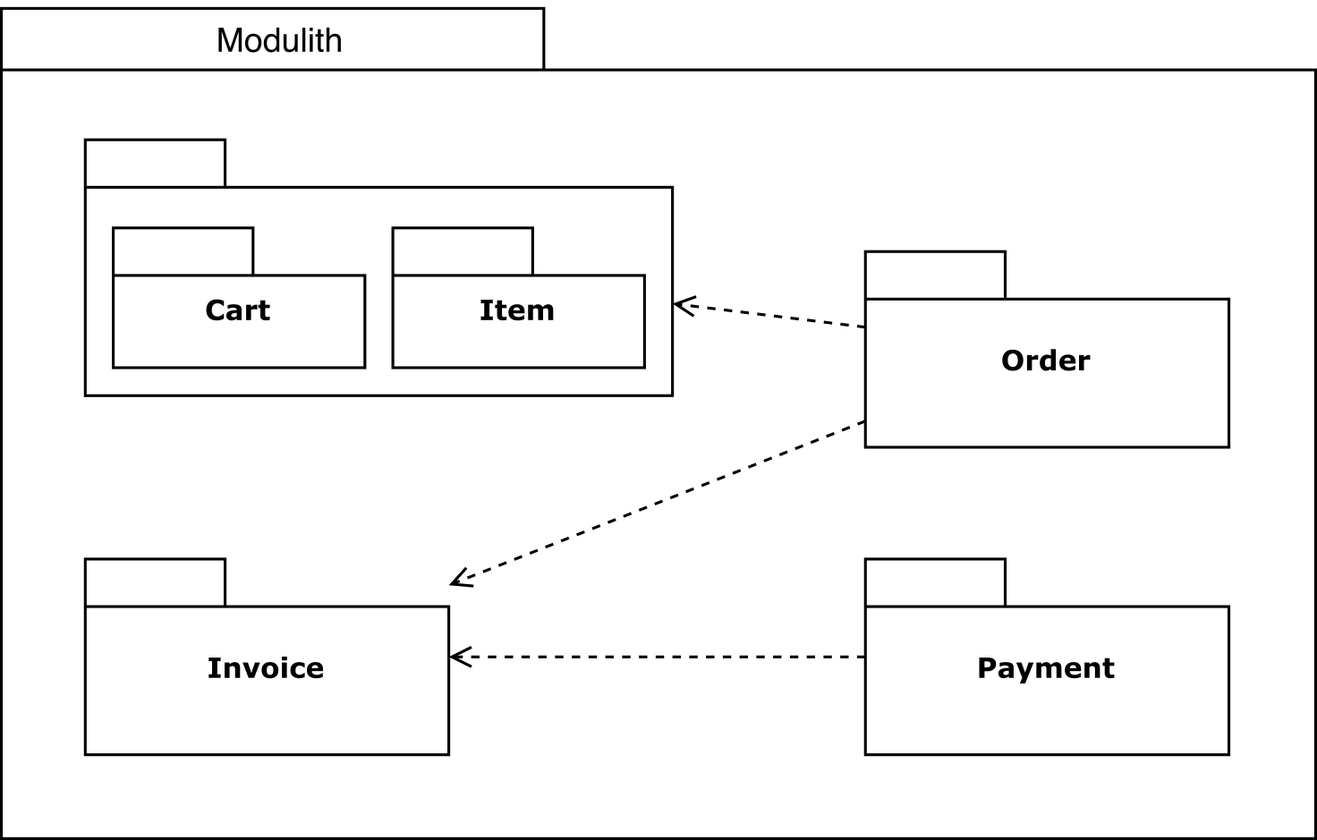
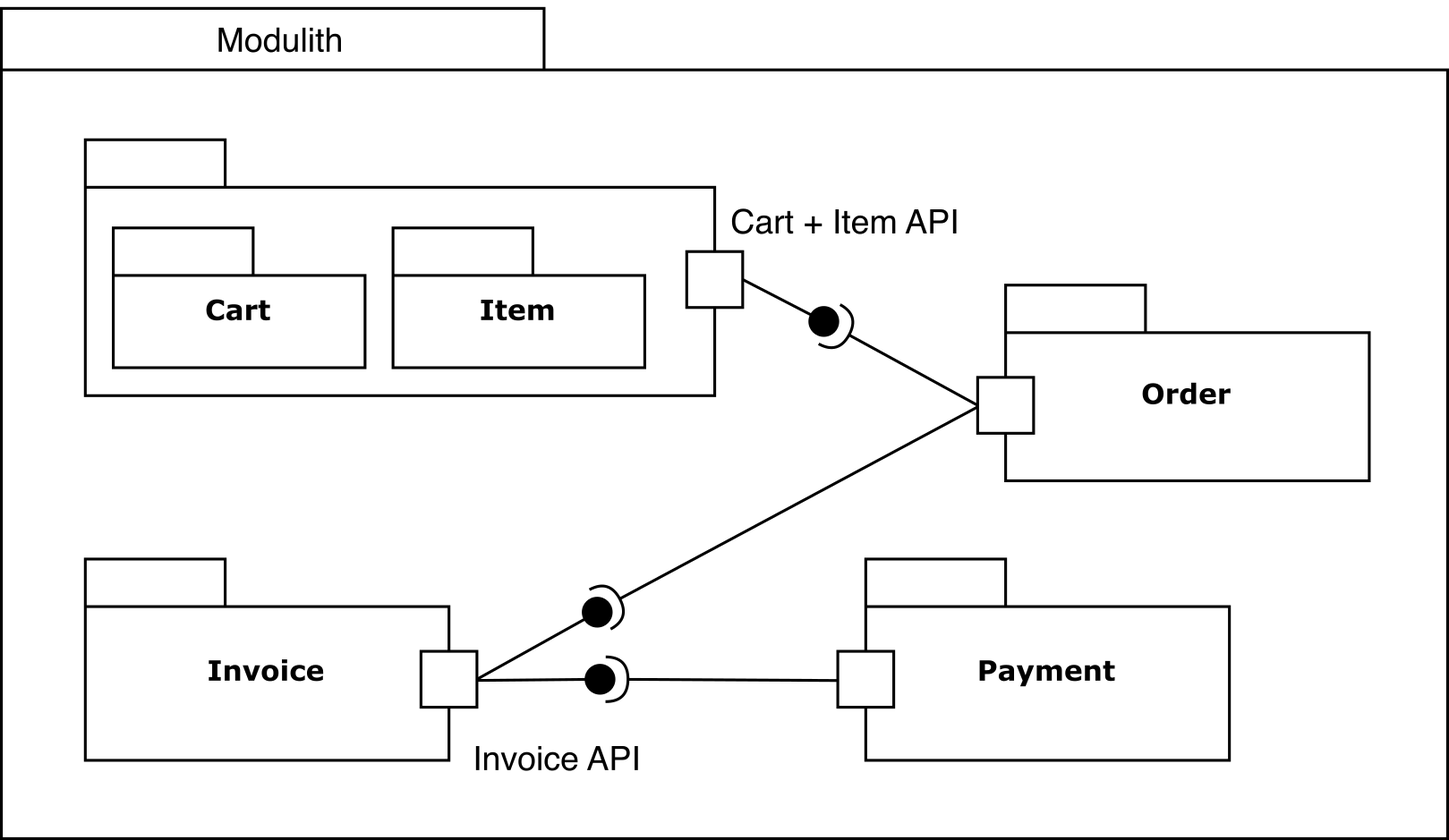
Work in all notes

diff --git a/thesis/src/text/example_application.tex b/thesis/src/text/example_application.tex
@@ -4,7 +4,7 @@
 % Performance testing +monolith
 % https://ieeexplore.ieee.org/abstract/document/9109514
 
-Up to this point, we have walk through three different types of architecture patterns. In this section we are going to look into implementation of simple application using every pattern. We will look into implication concerning internal structure, database design, scalability and of course performance.
+Up to this point, we have walk through three different types of architecture patterns. In this section we are going to look into implementation of a simple application using all 3 discussed architecture patterns (Monolith, Mudulith, Microservice). We will look into implication concerning internal structure, database design, scalability and of course performance.
 
 \section{Application}
 This is an application example of real world system, consisting of HTTP API, database queries and business logic. It was design to be easy to understand and solve problem known to everyone: orders. Every application exposes following HTTP API:
@@ -21,7 +21,7 @@ This is an application example of real world system, consisting of HTTP API, dat
     \item \textbf{Post /payment/invoice/\{invoiceId\}} - Pay for invoice specified by id.
 \end{itemize}
 
-Client of application can view items, add them to his shopping cart, place order, retrieve invoice and pay for it. As most of the applications today, there are mainly operations querying data or saving data into database. Activity flow is described on Diagram \ref{img:app_activity_flow}. First session is created for client, then he loads items and add all he wants into his shopping cart. Later client places order, invoice is generated in background and client can cancel the order or pay for it. To add more cpu sensitive task, the generation of invoice generates pdf and also calculates 41st Fibonacci Number.
+Client of application can view items, add them to his shopping cart, place order, retrieve invoice and pay for it. As most of the applications today, there are mainly operations querying data or saving data into database. Activity flow is described on Figure~\ref{img:app_activity_flow}. First session is created for client, then he loads items and add all he wants into his shopping cart. Later client places order, invoice is generated in background and client can cancel the order or pay for it. To add more cpu sensitive task, the generation of invoice generates pdf and also calculates 41st Fibonacci Number.
 
 The candidates for implementation programming language were Rust and Golang due to its minimal runtime (minimal effect on Benchmarking). Winner being Golang, because of it's easier to use, good authors personal experience and better support for Open Tracing project, which will be used for monitoring from within application during benchmarking. All applications are based on \textit{gorilla/mux} \cite{MUX} library for http server + request routing and \textit{Bun} \cite{BUN} as lightweight ORM.
 
@@ -36,7 +36,7 @@ Application will have to be able to run in multiple instances, so it can be late
 
 
 \section{Monolith example}
-This example is implemented as Monolithic system. Basically it is Three-tier application: presentation (HTTP API), application and data (database). Diagram \ref{img:monolith_db_schema} describes internal application package structure. \textit{Routes} package contains path mapping for endpoints handlers defined in \textit{endpoints}. Handlers contain simple logic definition, more complex logic resides in \textit{services} and data manipulation around database is contained in \textit{database} package.
+This example is implemented as Monolithic system. Basically it is a three-tier application: presentation (HTTP API), application and data (database). Figure~\ref{img:monolith_db_schema} describes internal application package structure. \textit{Routes} package contains path mapping for endpoints handlers defined in \textit{endpoints}. Handlers contain simple logic definition, more complex logic resides in \textit{services} and data manipulation around database is contained in \textit{database} package.
 
 \begin{figure}
     \centering
@@ -46,7 +46,7 @@ This example is implemented as Monolithic system. Basically it is Three-tier app
 
 
 \subsection{Database}
-Due to nature of Monolith as unified system, all data resides inside single database fully leveraging constraints and referential integrity and thus ensuring data consistency. Complete database schema is displayed on Diagram~\ref{img:monolith_db_schema} consisting of 7 tables, five of being entity tables and two entity relation mapping. Application will have database pool consisting maximally of 8 connections.
+Due to nature of Monolith as unified system, all data resides inside single database fully leveraging constraints and referential integrity and thus ensuring data consistency. Complete database schema is displayed on Diagram~\ref{img:monolith_db_schema} consisting of 7 tables, five of being entity tables and two entity relationship mapping. Application will have database pool consisting maximally of 8 connections.
 
 \begin{figure}
     \centering
@@ -57,7 +57,7 @@ Due to nature of Monolith as unified system, all data resides inside single data
 
 
 \section{Modulith example}
-This is example using Modular Monolith approach. The original Monolithic application was split into multiple smaller Monoliths called \textit{modules}. The scope of every module depends on the specificity of the project. In this case it nearly corresponds to module per database Entity, exception being shopping cart and items, which were merged into single module to demonstrate possibility to have modules with larger volume. Package schema and dependency are displayed on Diagram~\ref{img:modulith_package}.
+This is an example using Modular Monolith approach. The original Monolithic application was split into multiple smaller Monoliths called \textit{modules}. The scope of every module depends on the specificity of the project. In this case it nearly corresponds to module per database Entity, exception being shopping cart and items, which were merged into single module to demonstrate possibility to have modules with larger volume. Package schema and dependency are displayed on Diagram~\ref{img:modulith_package}.
 
 Every module has the same internal structure as original Monolith plus exposes its API with interface (Diagram~\ref{img:modulith_module_package}). Modules encapsulate its own data storage and there shouldn't be any inter-modules table constraint set in database, although it is possible, it does not make sense from the perspective of logical separation. It should be possible for every module to use different database and even different database technology. In case of the largest module containing shopping cart and items, there are foreign keys constraints preserved since it resides inside single module.
 
@@ -77,7 +77,7 @@ Modulith application was further extended to run in 3 modes, depending on enviro
 \begin{figure}
     \centering
     \includesvg[width=0.7\textwidth]{images/modulith_module_package.svg}
-    \caption{Internal package structure of single module (Modulith example). \label{img:modulith_module_package}}
+    \caption{Internal package structure of single module (Modulith example).\label{img:modulith_module_package}}
 \end{figure}
 
 \begin{figure}
@@ -96,7 +96,7 @@ Every module encapsulates its own tables completely independent of the rest. Tab
 % \end{figure}
 
 \section{Microservices example}
-In this example the Modulith implementation was further split into 5 microservices: Item, Cart, Invoice, Order and Payment. Modulith originally contained 4 packages of which 1 combined logic around Shopping Cart and Items, so it was split into two for the volume to be more consistent across microservices. The dependency graph between services is displayed on Diagram \ref{img:microservices_dependency}.
+In this example the Modulith implementation was further split into 5 microservices: Item, Cart, Invoice, Order and Payment. Modulith originally contained 4 packages of which 1 combined logic around Shopping Cart and Items, so it was split into two for the volume to be more consistent across microservices. The dependency graph between services is displayed on Figure~\ref{img:microservices_dependency}.
 
 Spliting Modulith into services requires exposing additional functionality over the network, since Modulith modules were communicates with other modules via inter-process communication. Following additional endpoints had to be created (compared to Monolith) and corresponding clients to satisfy defined interfaces.
 
@@ -116,7 +116,7 @@ Whole application is compiled into single binary, but in production it would be 
 \begin{figure}
     \centering
     \includesvg[width=0.7\textwidth]{images/microservices_dependency.svg}
-    \caption{Diagram displaying dependency between micro-services. \label{img:microservices_dependency}}
+    \caption{Dependency between micro-services. \label{img:microservices_dependency}}
 \end{figure}
 
 \subsection{Database}

diff --git a/thesis/src/text/microservice.tex b/thesis/src/text/microservice.tex
@@ -14,9 +14,9 @@ From a technology viewpoint, microservices expose the business capabilities that
 Compared to the discussed Modulith in section \ref{section:modulith}, Microservices are taking the whole modular concept one step further. Instead of primarily building the application around modules with possibility to extract module into separate service to scale it, they are building the whole application from the ground around services with network boundaries fully embracing scalability. This is where I see the problem with building new applications with Microservices architecture from the start when there is no idea about system load, performance issues or just about anything. I would compare it to `Premature optimization' in programming - why spend a lot of time building super scalable system, when we do not even know yet if we will ever need it?
 
 % how to find correct size of microservice
-What is the correct size of single Microservice? The \textit{micro} part of the word is misleading. The Microservices were created primarily for needs of big companies and original idea behind it was to have a dedicated team of developers behind nearly Microservices. And this is something, which is not possible in most of the companies with just couple of developers. The practice I have seen in reality is, that just couple of developers are running dozens of microservices or even in one project I was single developer managing over 20 microservices (experience described in Chapter \ref{chapter:personal_experience}). The `micro' just means completely different thing for big companies like Netflix or Amazon and for small/medium projects.
+What is the correct size of a single Microservice? The \textit{micro} part of the word is misleading. The Microservices were created primarily for needs of big companies and original idea behind it was to have a dedicated team of developers behind nearly Microservices. And this is something, which is not possible in most of the companies with just couple of developers. The practice I have seen in reality is, that just couple of developers are running dozens of microservices or even in one project I was single developer managing over 20 microservices (experience described in Chapter \ref{chapter:personal_experience}). The `micro' just means completely different thing for big companies like Netflix or Amazon and for small/medium projects.
 
-Building Microservice architecture requires a lot of planning to properly set boundaries to individual services and keep an eye on it. It is much harder to do bigger refactoring compared to Monolithic architecture even though it should be easier due to the service isolation. Unfortunately in practice due to business requirements it is impossible to create something completed independent. Example: Lets image we have microservice with some HTTP API, which we need to split. Other service are communicating with it through the API. We need to hold the compatibility for API for a long time, since we most likely do not know exactly which services are using which API and if it is safe to remove anything. So, we split the service, the old service will have the full original API, the new service just the part of the API, which it can handle. For the old service additional backward compatibility logic needs to be implemented for those parts of API, which were moved to second service. And this compatibility needs to be maintained for unspecified period of time - this depend if we have any strategy how to safely remove anything and make sure it does not break other parts of system. On other hand in Modulith we would just split the one module into two, and we very easy find all places which uses the old functionality and update it accordingly - how to find it? IDE (basic feature `find usage'), compiler, static code analyses. The compiler makes sure automatically all interfaces and implementations are compatible, and it does for free out of box. Just something, which is not easily possible in Microservices world.
+Building Microservice architecture requires a lot of planning to properly set boundaries to individual services and keep an eye on it. It is much harder to do bigger refactoring compared to Monolithic architecture even though it should be easier due to the service isolation. Unfortunately in practice due to business requirements it is impossible to create something completely independent. Example: Lets image we have microservice with some HTTP API, which we need to split. Other service are communicating with it through the API. We need to hold the compatibility for API for a long time, since we most likely do not know exactly which services are using which API and if it is safe to remove anything. So, we split the service, the old service will have the full original API, the new service just the part of the API, which it can handle. For the old service additional backward compatibility logic needs to be implemented for those parts of API, which were moved to second service. And this compatibility needs to be maintained for unspecified period of time - this depend if we have any strategy how to safely remove anything and make sure it does not break other parts of system. On other hand in Modulith we would just split the one module into two, and we very easy find all places which uses the old functionality and update it accordingly - how to find it? IDE (basic feature `find usage'), compiler, static code analyses. The compiler makes sure automatically all interfaces and implementations are compatible, and it does for free out of box. Just something, which is not easily possible in Microservices world.
 
 
 \begin{figure}
@@ -28,10 +28,10 @@ Building Microservice architecture requires a lot of planning to properly set bo
 
 
 \subsection{Brief history}
-Dr. Peter Rodgers during a presentation in 2005 used the term `Micro-web-Services' on topic of cloud computing. Redgers promoted software components supporting micro-web-services. The first usage of the term ``microservices" is to believed to be first heard in May, 2011, in a workshop for software architects, where they use it to describe an architectural style several of them had recently explored. Later on in 2012, the term was formally adopted. They had been experimenting with building continuously deployed systems, while incorporating the DevOps philosophy. From there this form of architecture quickly gained popularity. \cite{BRIEF_HISTORY_OF_MS}
+Dr. Peter Rodgers during a presentation in 2005 used the term `Micro-web-Services' on topic of cloud computing. Redgers promoted software components supporting micro-web-services. The first usage of the term ``microservices" is to believed to be first heard in May, 2011, in a workshop for software architects, where they use it to describe an architectural style several of them had recently explored. Later on in 2012, the term was formally adopted. They had been experimenting with building continuously deployed systems, while incorporating the DevOps philosophy. From there this form of the architecture quickly gained popularity. \cite{BRIEF_HISTORY_OF_MS}
 
 % TODO add sources
-Netlix is a company considered as a pioneer in the field together with Amazon, which was more focusing on Cloud computing. Also, other large companies joined the ride like Uber, Etsy and many more. This architecture was the answer companies were looking for, due to its ability to offer agility, scalability and ability to adapt to changing business requirements. \cite{MS_COMPANIES}
+Netlix is a company considered as pioneer in Microservices adoption together with Amazon, which was more focusing on Cloud computing. Also, other large companies joined the ride like Uber, Etsy and many more. This architecture was the answer companies were looking for, due to its ability to offer agility, scalability and ability to adapt to changing business requirements. \cite{MS_COMPANIES}
 
 
 

diff --git a/thesis/src/text/monolith.tex b/thesis/src/text/monolith.tex
@@ -2,7 +2,7 @@
 
 % System vs application? I want probably refer to app
 \section{Monolith}
-Probably the most well known architecture praised by some, hated by others is the Monolith. Surprisingly a lot of people I know do not imagine a properly structured application, but rather `Big ball of mud' \cite{BIG_BALL_OF_MUD} (haphazardly structured, sprawling, sloppy, duct-tape-and-baling-wire, spaghetti-code jungle). Others refer to it as some kind of legacy system, which should be eliminated as soon as possible. Off course there is some truth in all of those statements. Monolithic architecture is with us from early days of software development, so lots of legacy systems exists, but we have to understand that they are \textbf{legacy systems}. They were written decades ago, when Languages weren't mature as are now and architecture research was at the beginning. To give you some numbers - according to Google Scholar 20 thousands articles were published about \textit{Software architecture} until year 2000 \cite{SCHOLAR_2000} and from 2001 until 2023 it was over 244 thousands \cite{SCHOLAR_2001_2023}. The progress in software architecture was huge over the last two decades and new concepts for Monolithic architectures were created as well.
+Probably the most well known architecture praised by some, hated by others is the Monolith. Surprisingly a lot of people I know do not imagine a properly structured application, but rather `Big ball of mud' \cite{BIG_BALL_OF_MUD} (haphazardly structured, sprawling, sloppy, duct-tape-and-baling-wire, spaghetti-code jungle). Others refer to it as some kind of legacy system, which should be eliminated as soon as possible. Off course there is some truth in all of those statements. Monolithic architecture is with us from early days of software development, so lots of legacy systems exists, but we have to understand that they are \textbf{legacy systems}. They were written decades ago, with architecture design of that time, which wasn't mature as is one and architecture research was at the beginning. To give you some numbers - according to Google Scholar 20 thousands articles were published about \textit{Software architecture} until year 2000 \cite{SCHOLAR_2000} and from 2001 until 2023 it was over 244 thousands \cite{SCHOLAR_2001_2023}. The progress in software architecture was huge over the last two decades and new concepts for Monolithic architectures were created as well.
 
 In this section we are going to dig deep into what Monolith is and isn't, what are new approaches, and we'll try to eliminate common misconceptions. When I talk about the monoliths, I am primarily referring to a unit of deployment\cite{MON_TO_MS_MONOLITH}. \textit{When all functionality in a system has to be deployed together, we consider it a monolith \cite{MON_TO_MS_MONOLITH}.} There are at least three types of monolithic systems that fit the bill: the single-process system, modular monolith and distributed monolith \cite{BUILDING_MS_MONOLITH}.
 
@@ -51,7 +51,7 @@ Distributed monoliths typically emerge in an environment where not enough focus 
 I am including this type of Monolith for the completeness, but since it is discouraged I will not refer to it unless explicitly specified.
 
 % -------------------------------------------------------
-\subsection{Service oriented (SOA)}
+\subsection{Service Oriented Architecture (SOA)}
 In the world of business, creating solutions to automate the execution of business task makes a great sense. Over the course of IT's history, such solutions have been created with a common approach of identifying business task to be automated, defining business requirements and then creating the solution logic \cite{SERVICE_ORIENTED_ARCHITECTURE}. This has been accepted and proven approach to achieving positive business benefits, but it had a few negative sides:
 \begin{itemize}
     \item  Repeatedly building ``disposable applications" is not the perfect approach.
@@ -64,9 +64,9 @@ All of those negative aspects listed above led to creation of Service-Oriented a
     `SOA, or service-oriented architecture, defines a way to make software components reusable and interoperable via service interfaces. Services use common interface standards and an architectural pattern so they can be rapidly incorporated into new applications. This removes tasks from the application developer who previously redeveloped or duplicated existing functionality or had to know how to connect or provide interoperability with existing functions.' \cite{IBM_SOA}
 \end{quote}
 
-At the start, companies were launching big organization wide initiatives, to convert everything into Service oriented architecture, which promised a lot of benefits. It was laborious and time-consuming, and often the company's development team had to re-architecture all existing systems as well as design new applications according to new principles. A different way to approach problems of SOA was Enterpise service bus (ESB), which can be implemented and deployed in a short period acting as a central solution for integrations. This approach with ESB has been quickly adopted and basically everyone in business who have SOA architecture is using it. It allows preserving existing legacy Modulith systems, just by exposing from them service via API and creating integration through ESB.
+At the start, companies were launching big organization wide initiatives, to convert everything into Service oriented architecture, which promised a lot of benefits. It was laborious and time-consuming, and often the company's development team had to re-architecture all existing systems as well as design new applications according to new principles. A different way to approach problems of SOA was Enterpise service bus (ESB), which can be implemented and deployed in a short period of time acting as a central solution for integrations. This approach with ESB has been quickly adopted and basically everyone in business who have SOA architecture is using it. It allows preserving existing legacy Modulith systems, just by exposing from them service via API and creating integration through ESB.
 
-Every enterprise contains service inventory, where all services are located and from which the targeted application can be composed as shown on Diagram \ref{img:soa_architecture}. The direct composable property should have mitigated traditional perception of integration, but in reality it just moved into ESB. Once a signification part of the enterprise solution logic is represented by services in inventory, which gives freedom to mix these services into infinite composition configurations to match whatever automation task come our way \cite{SERVICE_ORIENTED_ARCHITECTURE}.
+Every enterprise contains service inventory, where all services are located and from which the targeted application can be composed as shown on Figure~\ref{img:soa_architecture}. The direct composable property should have mitigated traditional perception of integration, but in reality it just moved into ESB. Once a signification part of the enterprise solution logic is represented by services in inventory, which gives freedom to mix these services into infinite composition configurations to match whatever automation task come our way \cite{SERVICE_ORIENTED_ARCHITECTURE}.
 
 A classification is used to indicate the reuse potential of the logic and how the service relates to the actual business logic. The common service models are: Task service, Entity service, Utility service and microservice (this is different microservice than we know today, in SOA it was used for small implementation specific service, which was not reusable). \cite{SERVICE_ORIENTED_ARCHITECTURE}
 

diff --git a/thesis/src/text/benchmark.tex b/thesis/src/text/benchmark.tex
@@ -24,7 +24,7 @@ All benchmarks results will originate from running 10 parallel tests, totally 10
 \section{Benchmark results}
 
 \subsection{Application scenario}
-The first scenario consists of going through the whole application flow as defined on Diagram \ref{img:benchmark_flow}, which should represent evenly distributed load on the whole system. Client load list of houndred items and adds one random into his shopping cart. This repeats 10 times, after that client creates order, retrieves invoice information and pays for it. The application cosists of database queries and two harder jobs, which represents possible real world task. The first is CPU intensive task will be done during creation of order, where application generates PDF and also calculates 41st Fibonacci number to add more cpu load. The second big task, which represents waiting for 3rd party service is done during handling payment, which is implemented as 500~ms sleep.
+The first scenario consists of going through the whole application flow as defined on Figure~\ref{img:benchmark_flow}, which should represent evenly distributed load on the whole system. Client load list of houndred items and adds one random into his shopping cart. This repeats 10 times, after that client creates order, retrieves invoice information and pays for it. The application cosists of database queries and two harder jobs, which represents possible real world task. The first is CPU intensive task will be done during creation of order, where application generates PDF and also calculates 41st Fibonacci number to add more cpu load. The second big task, which represents waiting for 3rd party service is done during handling payment, which is implemented as 500~ms sleep.
 
 \begin{figure}
     \centering
@@ -80,7 +80,7 @@ In second measurement invoice package was moved into separated service implement
 
 
 \subsection{Latency scenario}
-The second scenario consist just of the iterations part of previous scenario as defined on Diagram \ref{img:benchmark_flow}, but instead of repeating 10 times as in first scenario, it will repeat 100 times. Benchmark will send totally 2 000 requests (100 iterations of scenarios, 100 iterations in scenario, 2 requests per iteration), where handling of requests will consist of multiple database queries, so application will be most of the time waiting for network or database.
+The second scenario consist just of the iterations part of previous scenario as defined on Figure~\ref{img:benchmark_flow}, but instead of repeating 10 times as in first scenario, it will repeat 100 times. Benchmark will send totally 2 000 requests (100 iterations of scenarios, 100 iterations in scenario, 2 requests per iteration), where handling of requests will consist of multiple database queries, so application will be most of the time waiting for network or database.
 
 Benchmark will be running 100 iterations consisting of 3 http requests to retrieve list of items, add random item to shopping cart and later remove it from shopping cart. For Monolith and Modulith it is just matter of inter-process communication and database queries. In case of Microservices, there is overhead in network inter-service communication. To handle either add or remove item, there are two network requests involved: first to retrieve item data to validate if the id of item is valid and second request to load data for all item ids contained inside shopping cart.
 

diff --git a/thesis/src/text/modulith.tex b/thesis/src/text/modulith.tex
@@ -2,7 +2,7 @@
 \label{section:modulith}
 `Microservice architectures are all the rage these days, but what's really important for long-term maintainability is modularity. It isn't necessary to use a network boundary to create such modules.' \cite{HOW_TO_BUILD_MODULAR_MONOLITH_CONFERENCE_INTRO}
 
-The word \textit{Modulith} is combination of words `Modular' and `Monolith'. In previous section we discussed Monolith architectures and one of them was \textit{Modular monolith} \ref{section:modular_monolith}, which basically enforces separation of logic into modules. Modulith is taking this modular approach even further by enforcing separation not just on logic, but on database/storage as well (see Diagram \ref{img:modulith_architecture}). This way the modules are truly independent on each other, and they are in full control of its data, since now modules has to communicate with others via defined interfaces (this can be done for e.g. directly via inter-process communication, messaging or any other means). Isolated, independent modules with interface through which they communicate formulate Modulith.
+The word \textit{Modulith} is combination of words `Modular' and `Monolith'. In previous section we discussed Monolith architectures and one of them was \textit{Modular monolith} \ref{section:modular_monolith}, which basically enforces separation of logic into modules. Modulith is taking this modular approach even further by enforcing separation not just on logic, but on database/storage as well (see Figure~\ref{img:modulith_architecture}). This way the modules are truly independent on each other, and they are in full control of its data, since now modules has to communicate with others via defined interfaces (this can be done for e.g. directly via inter-process communication, messaging or any other means). Isolated, independent modules with interface through which they communicate formulate Modulith.
 
 Modules being fully encapsulates give ability to even run different modules on different nodes/servers and communicate with others over the network, I call this \textbf{Hybrid Modulith}, and this is basically what Microservices are in its nature are. It is an enormous evolution compared to classical Monolith in terms of scaling, since this architecture offers ability to scale just parts of the systems (modules) instead of the whole application. Slow transition to Microservices (discussed in following Section \ref{section:microservices}) is natural step, once the need for scaling arise - just by moving required module into separate service we get a hybrid of microservices and modulith. So the whole application can be build using Modulith architecture, keeping all advantages of Microservices and in the same time removing the biggest disadvantage `distributed system' with the ability to incrementally move to distributed system once it is absolutely necessary.
 
